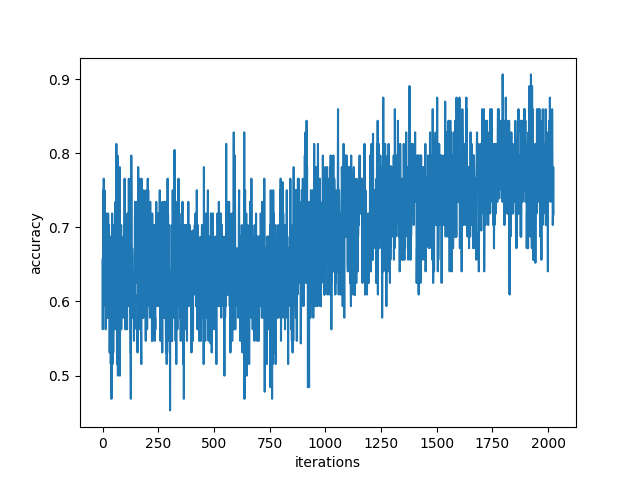
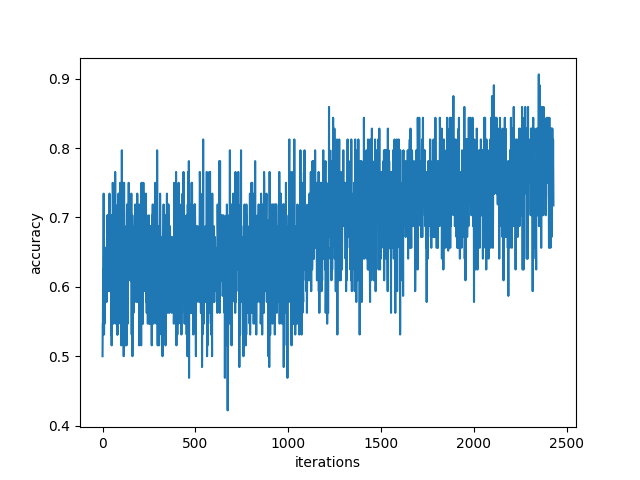
smile works

diff --git a/Vishal_tests/base/gender_model.py b/Vishal_tests/base/gender_model.py
@@ -23,7 +23,7 @@ class GenderDataset(Dataset):
         if(mode=="train" or mode=="val"):
             labels=train_data.ix[:,5:6]
             img_names=train_data.ix[:,0:1]
-            img_names_train, img_names_val, labels_train, labels_val = train_test_split(img_names, labels, random_state=0,train_size=0.7,test_size=0.3)
+            img_names_train, img_names_val, labels_train, labels_val = train_test_split(img_names, labels, random_state=0,train_size=0.85,test_size=0.15)
             self.N=img_names_train.shape[0]
             self.V=img_names_val.shape[0]
             self.img_names_train=np.array(img_names_train).reshape([self.N,1])
